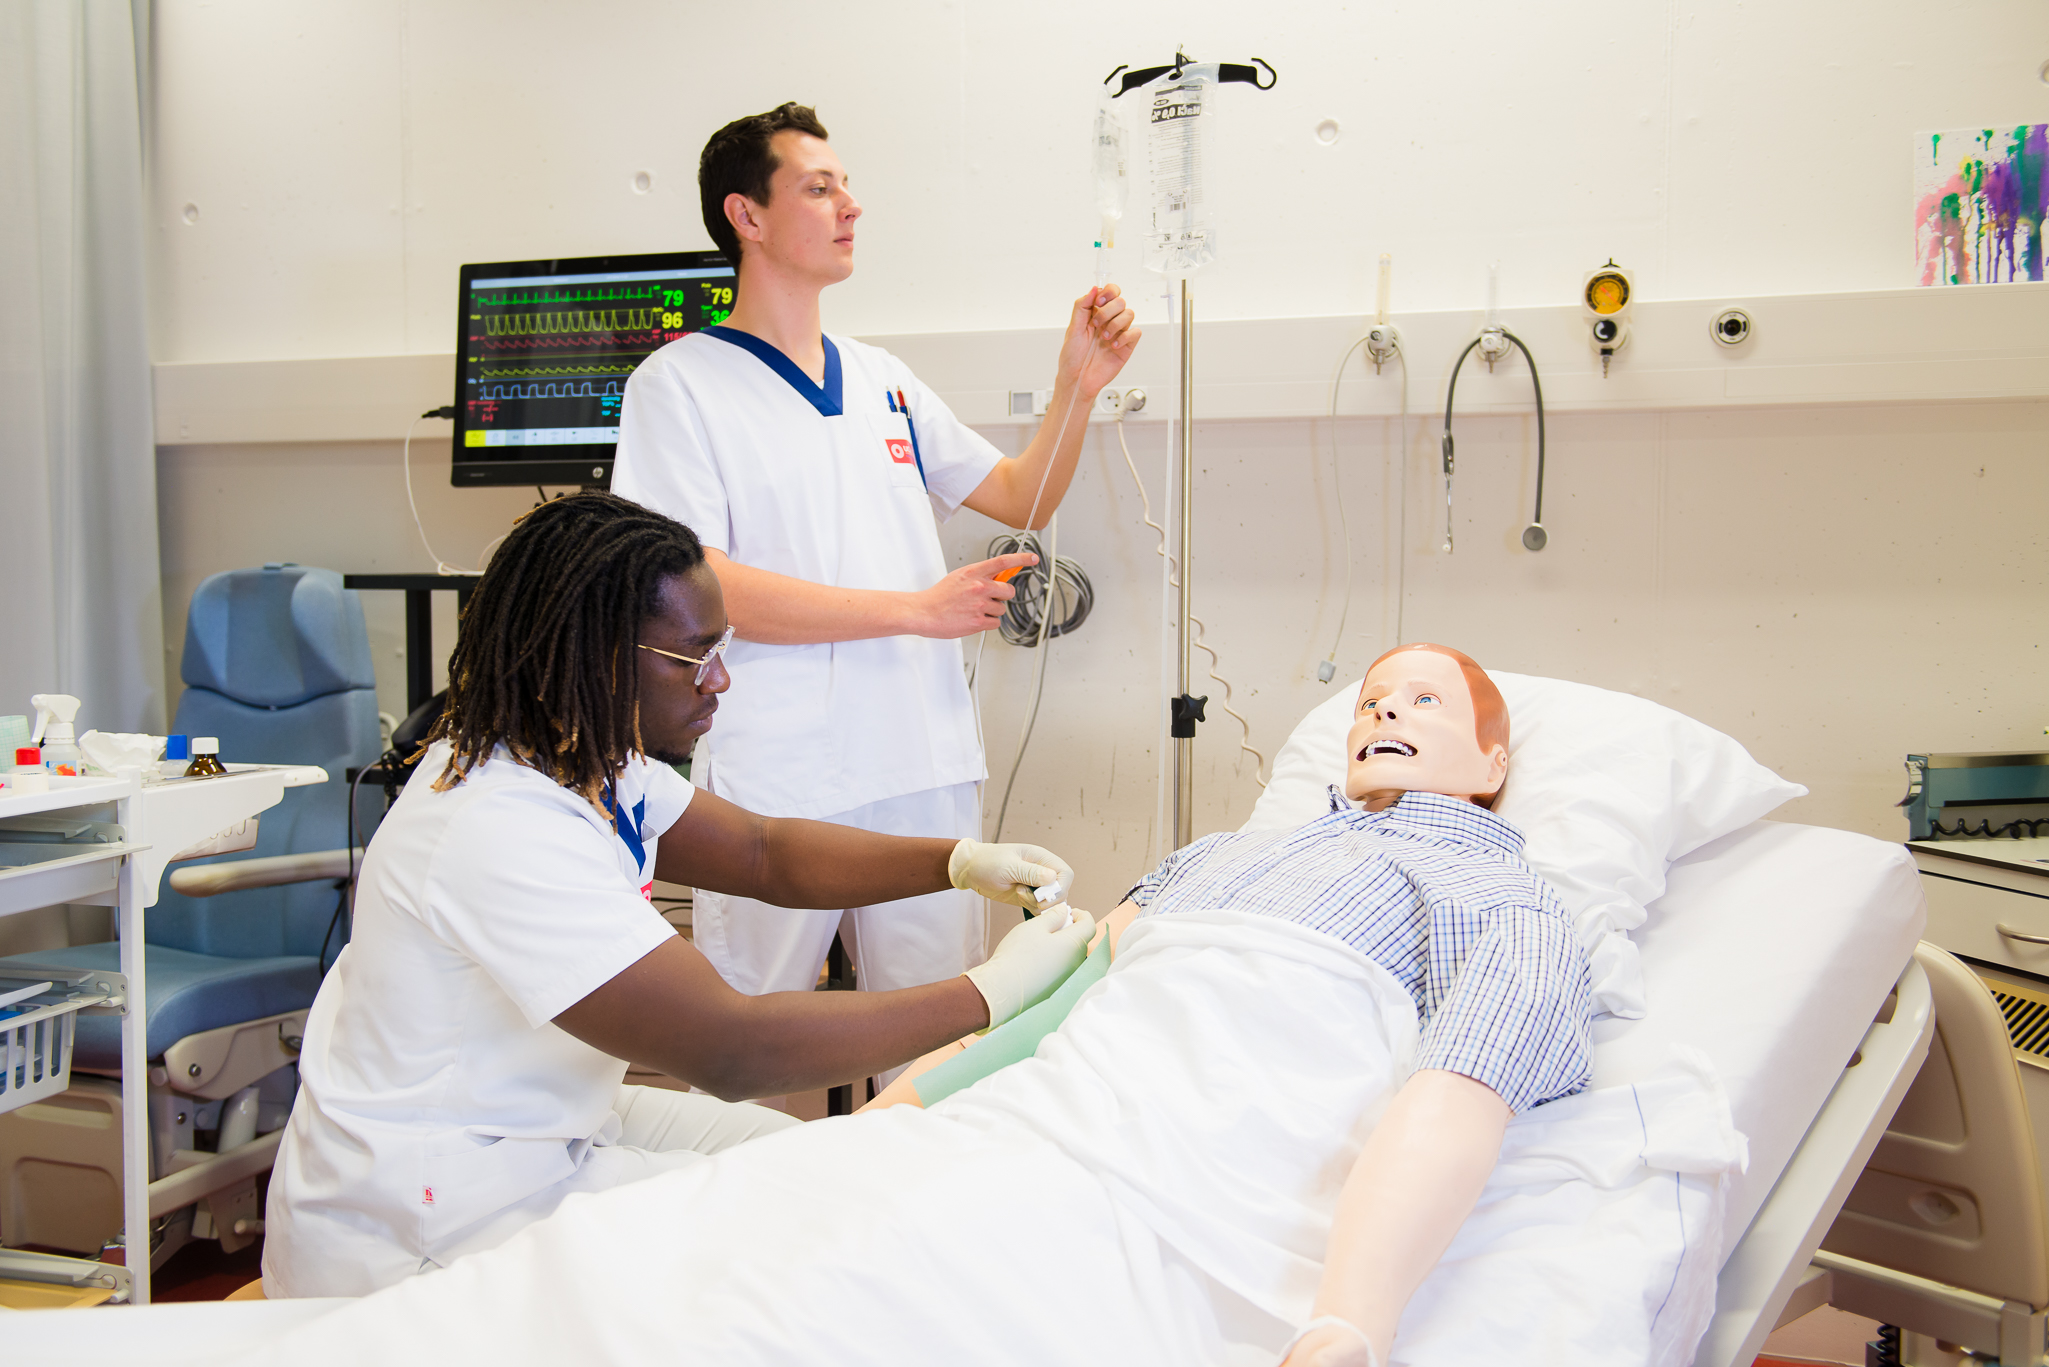
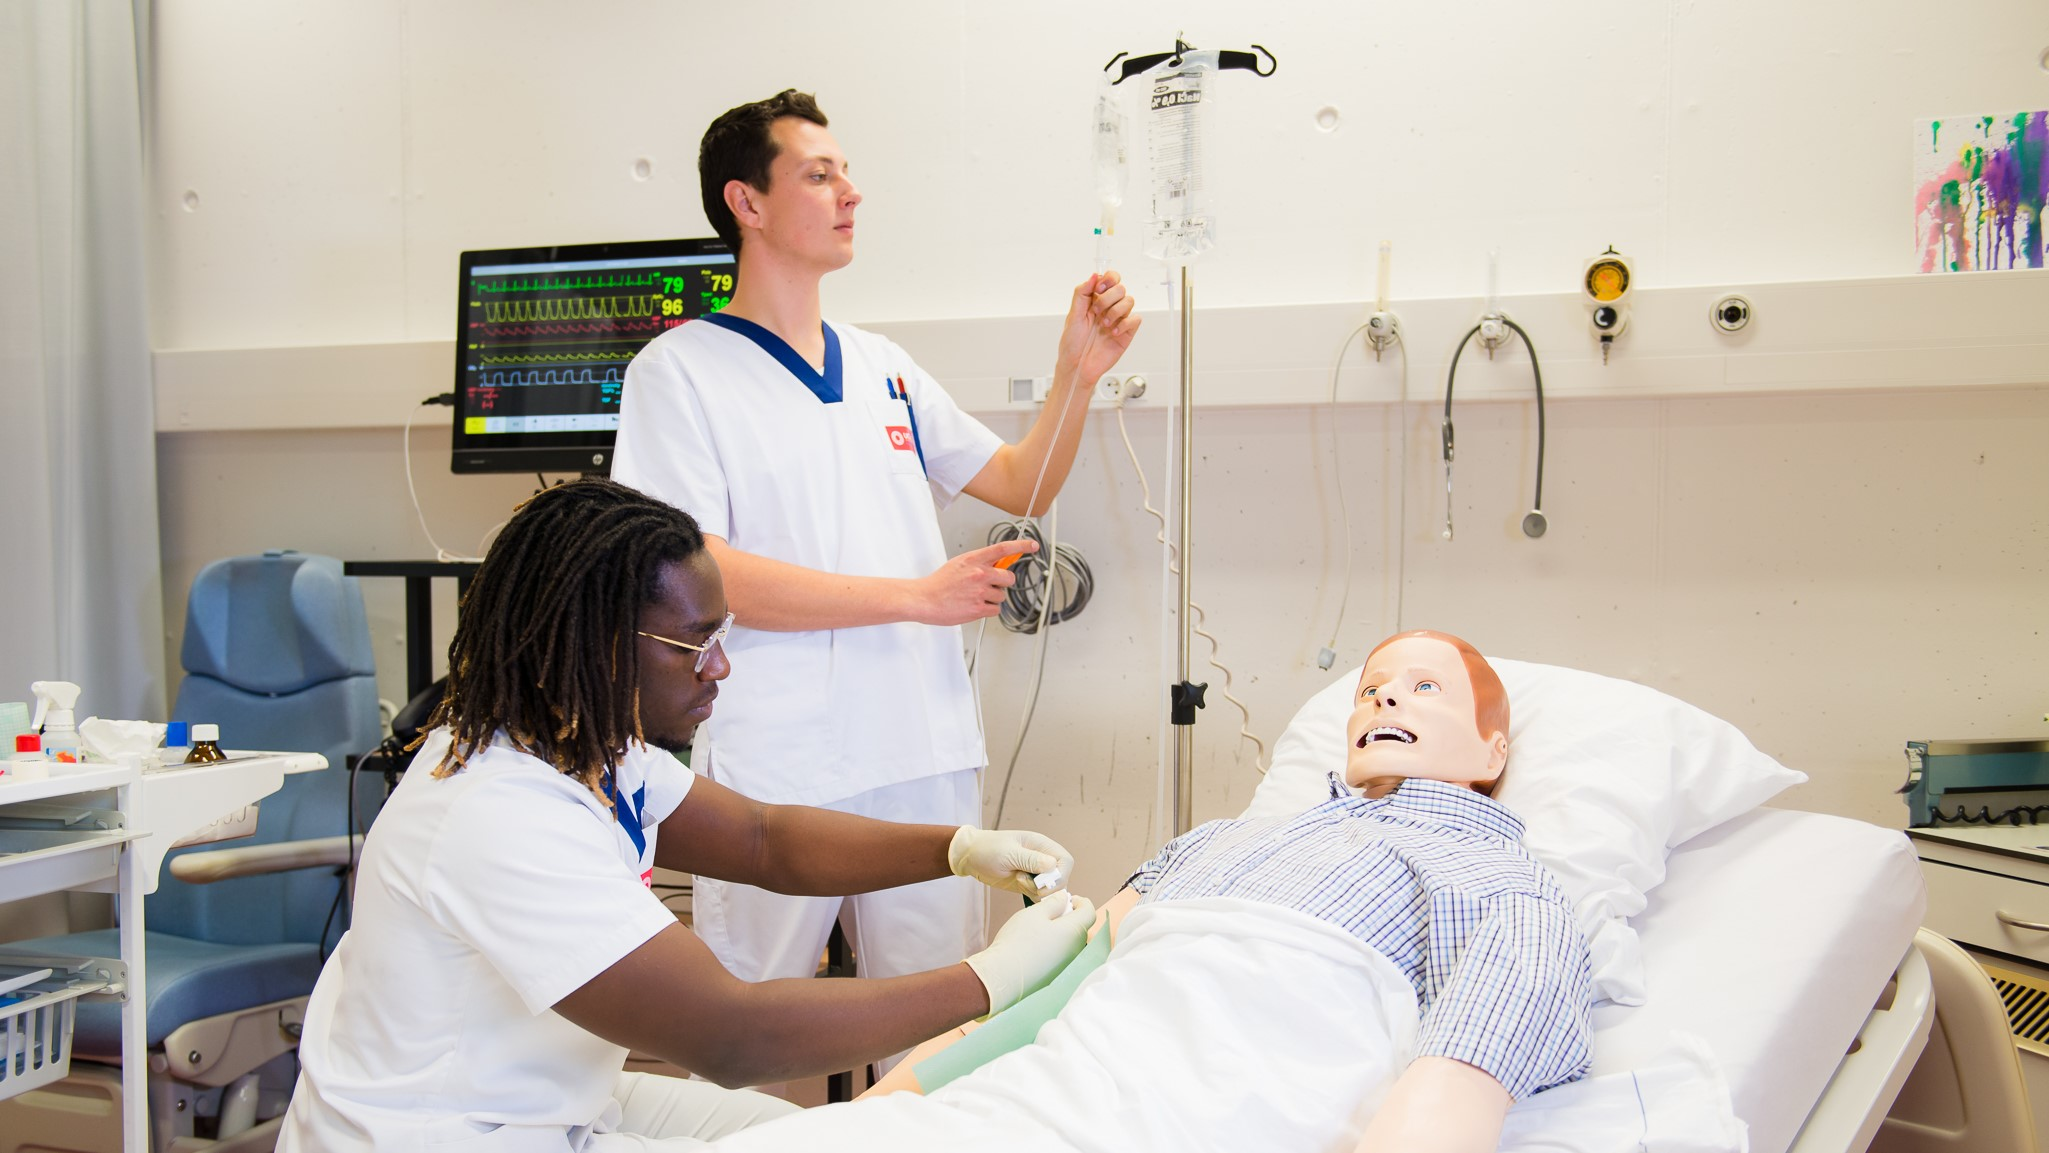
foto's research goed

diff --git a/research.html b/research.html
@@ -32,7 +32,7 @@
 
   <div class="research-grid">
       <div class="research-item">
-          <img src="images/Firefly Midwifery students' satisfaction with perinatal simulation-based training 56857.jpg" alt="Research 1">
+          <img src="images/DSC_7024.jpg" alt="Research 1">
           <div class="research-info">
               <a href="https://pubmed.ncbi.nlm.nih.gov/33384256/" class="research-name">Midwifery students' satisfaction with perinatal simulation-based training
               </a>
@@ -40,14 +40,14 @@
           </div>
       </div>
       <div class="research-item">
-          <img src="images/Firefly Using bed simulation to teach nursing students how to deal with real situation, women in the.jpg" alt="Research 2">
+          <img src="images/simulatie_pop.jpg" alt="Research 2">
           <div class="research-info">
               <a href="https://journals.plos.org/plosone/article?id=10.1371/journal.pone.0299049" class="research-name">Using simulation to teach nursing students how to deal with a euthanasia request</a>
               <p class="research-date">August 13, 2017</p>
           </div>
       </div>
       <div class="research-item">
-          <img src="images/Firefly Midwifery students' satisfaction with perinatal simulation-based training 56857.jpg" alt="Research 3">
+          <img src="images/consultatie.png" alt="Research 3">
           <div class="research-info">
               <a href="https://journals.sagepub.com/doi/abs/10.1891/CN-2022-0036" class="research-name">Using Simulation to Help Health Professions Students Learn to Talk to Clients about Suicide</a>
               <p class="research-date">December 11, 2020</p>
@@ -55,7 +55,7 @@
           
       </div>
       <div class="research-item">
-          <img src="images/Firefly Using bed simulation to teach nursing students how to deal with real situation, women in the.jpg" alt="Research 4">
+          <img src="images/research foto.jpg" alt="Research 4">
           <div class="research-info">
               <a href="https://www.europeanjournalofmidwifery.eu/Using-a-short-stress-and-satisfaction-debriefing-intervention-on-midwifery-students,172288,0,2.html" class="research-name">Using a short stress and satisfaction debriefing intervention on midwifery students during perinatal simulation-based training: A randomized controlled intervention</a>
               <p class="research-date">September 19, 2016</p>
